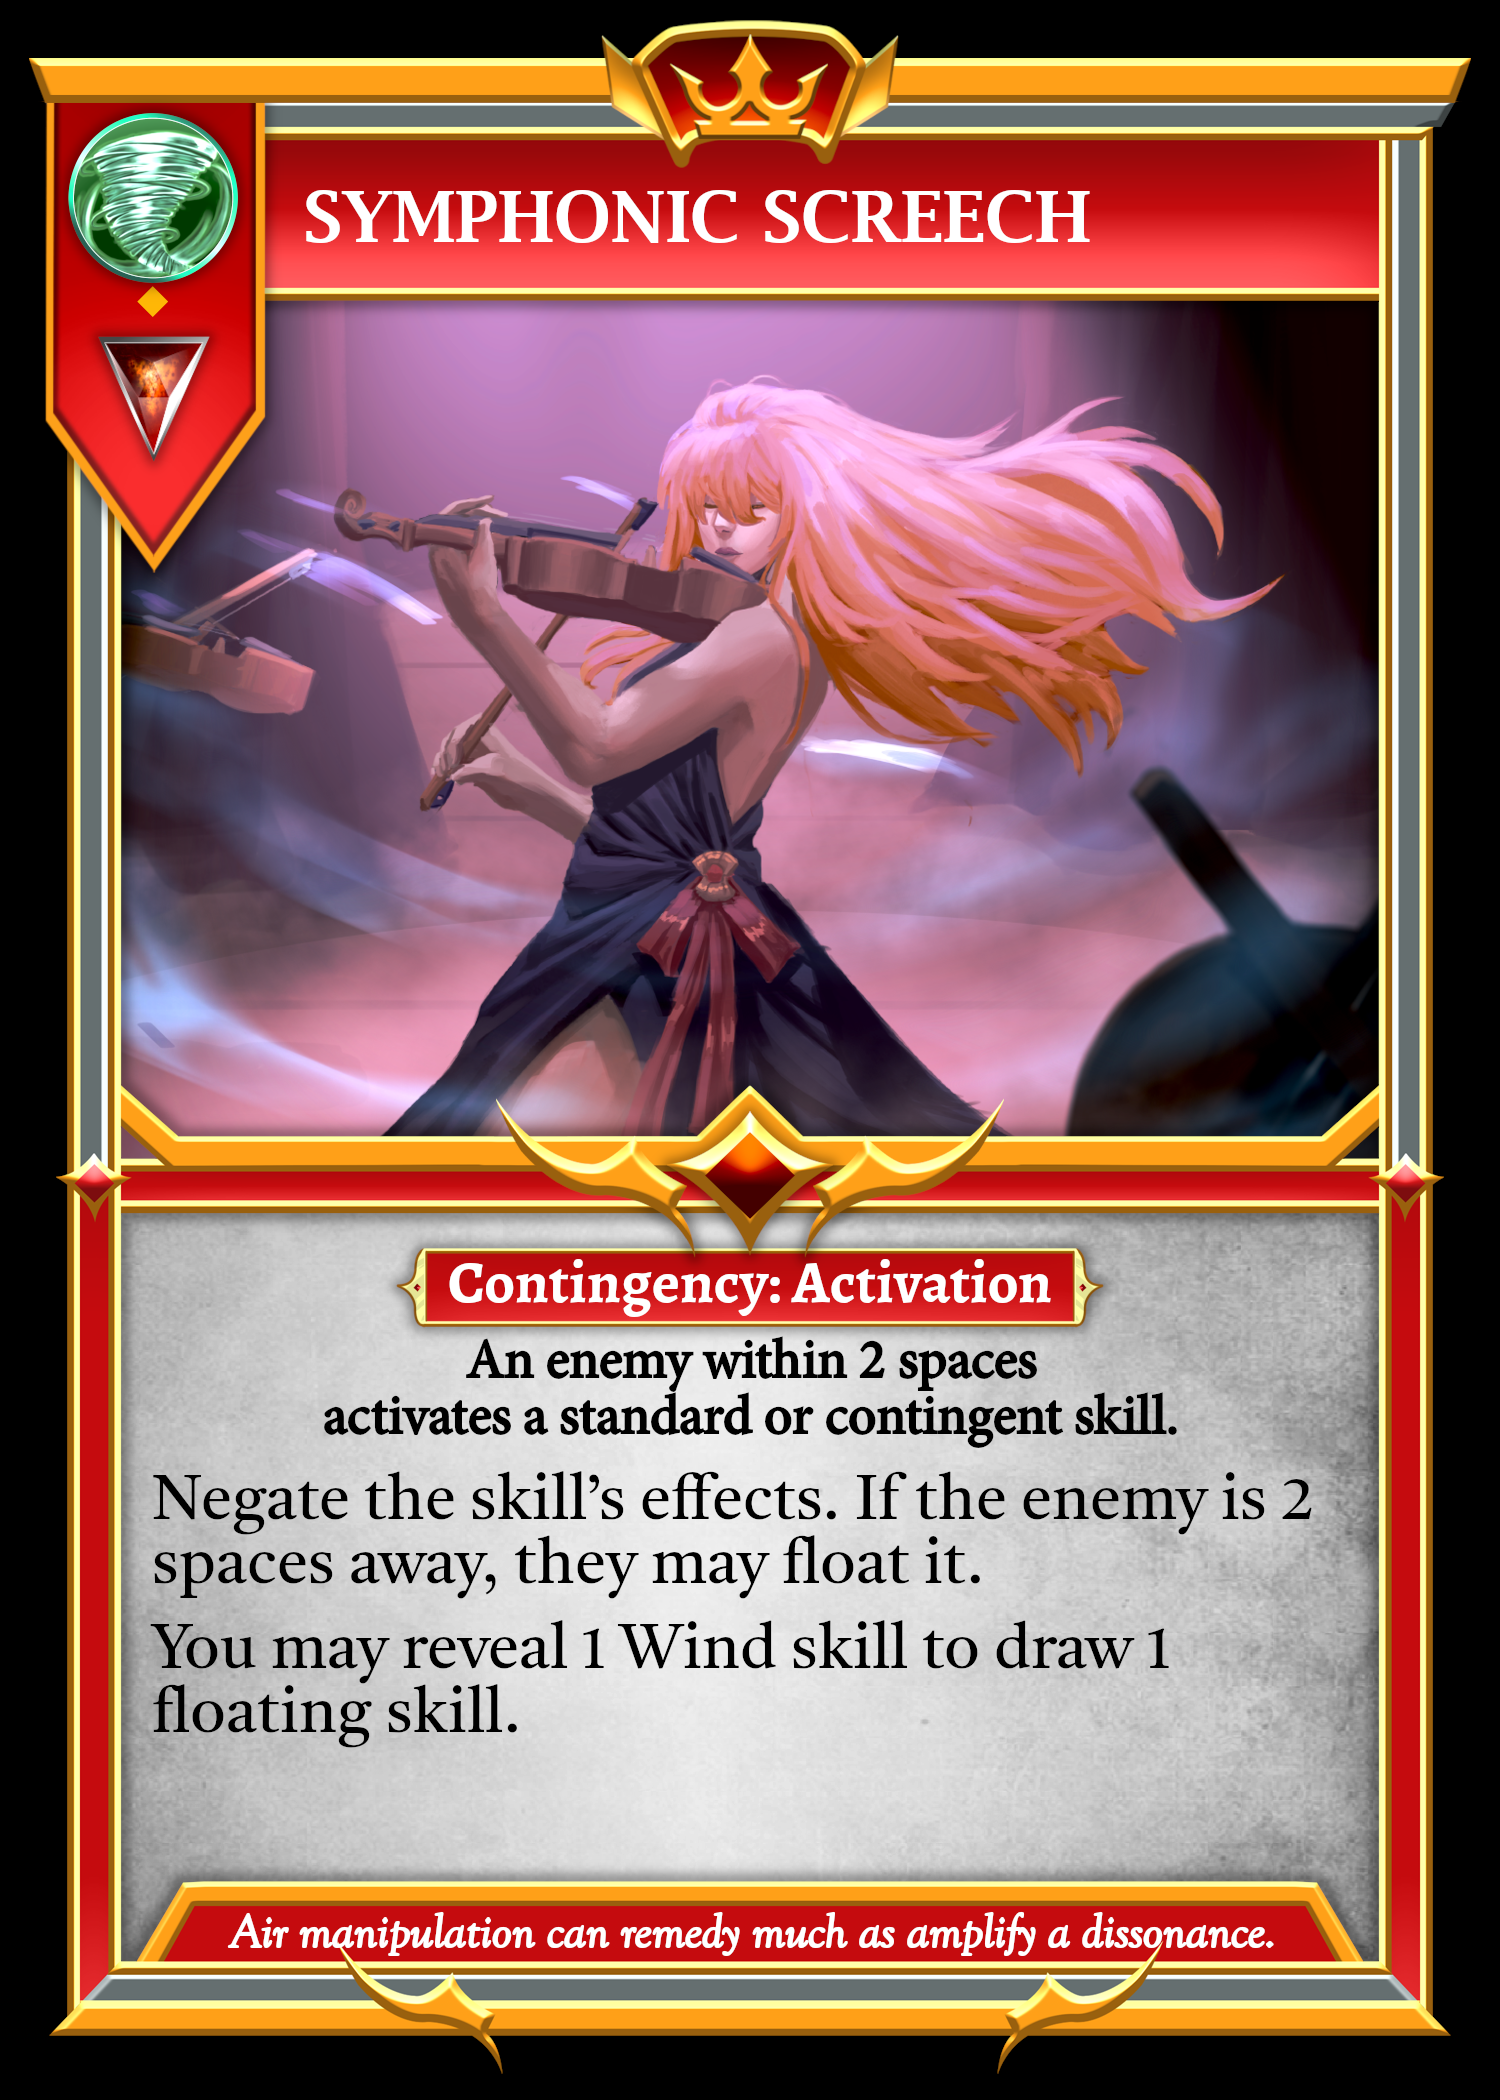
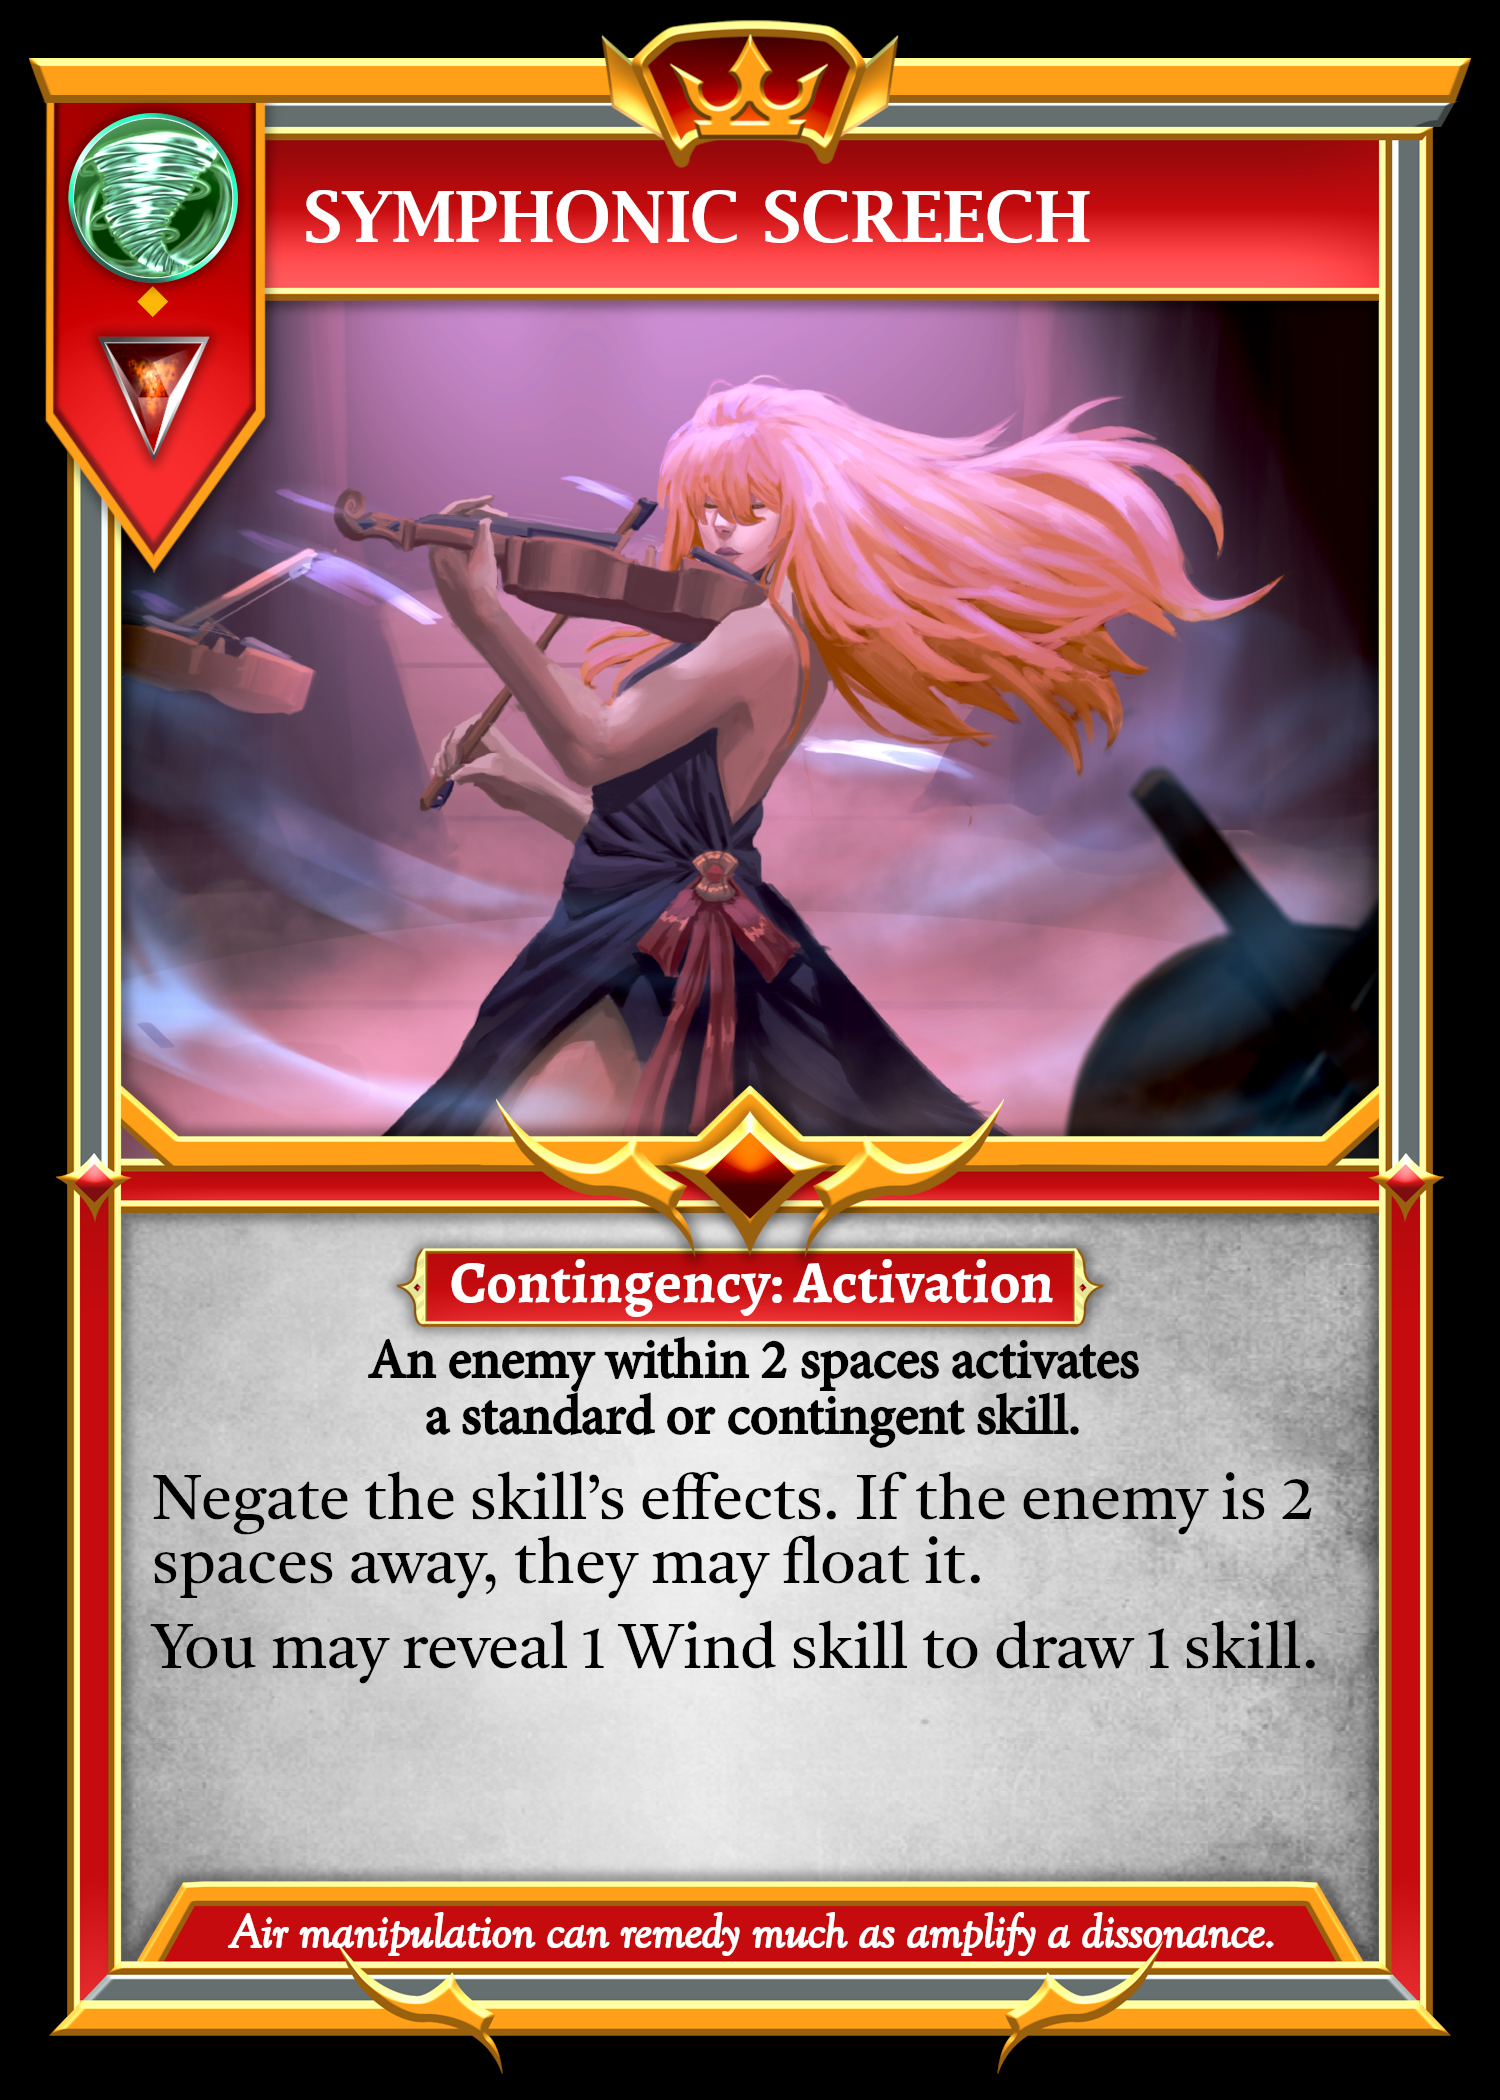
Fixed bug with Symphonic Screech

Changed region(s): [[0.2147, 0.5881, 0.7973, 0.7119], [0.092, 0.8048, 0.3373, 0.8357], [0.7973, 0.7738, 0.8893, 0.8048]]

diff --git a/src/hooks/useSkillEffects.jsx b/src/hooks/useSkillEffects.jsx
@@ -767,7 +767,7 @@ export const useSkillEffects = () => {
 
     //activator can reveal 1 Wind skill to draw 1 floating skill
     if (
-      newGameState[self].skillFloat > 0 &&
+      // newGameState[self].skillFloat > 0 &&
       newGameState[self].skillHand.length
     ) {
       newGameState.currentResolution.push({
@@ -776,18 +776,41 @@ export const useSkillEffects = () => {
         unit: unit,
         details: {
           title: "Symphonic Screech",
-          message: "You may reveal 1 Wind skill to draw a floating skill.",
+          message: "You may reveal 1 Wind skill to draw 1 skill.",
           restriction: ["03-01", "03-02", "03-03", "03-04"],
           reason: "Symphonic Screech",
         },
       });
     }
 
+    // newGameState.currentResolution.push({
+    //   resolution: "Wind Skill",
+    //   resolution2: "Symphonic Screech Negate",
+    //   player: victim.player,
+    //   canFloat: !isAdjacent(unit, victim),
+    // });
+
+    if (!isAdjacent(unit, victim)) {
+      newGameState.currentResolution.push({
+        resolution: "Wind Skill",
+        resolution2: "Symphonic Screech Float",
+        unit: victim,
+        details: {
+          reason: "Symphonic Screech Float",
+          title: "Symphonic Screech",
+          message: "You may float your negated skill.",
+          no: "Skip",
+          yes: "Float",
+        },
+      });
+    }
+
     newGameState.currentResolution.push({
-      resolution: "Wind Skill",
-      resolution2: "Symphonic Screech Negate",
-      player: victim.player,
-      canFloat: !isAdjacent(unit, victim),
+      resolution: "Misc.",
+      resolution2: "Message To Player",
+      player: enemy,
+      title: "Symphonic Screech",
+      message: "The effects of your unit’s skill have been negated!",
     });
 
     return newGameState;

diff --git a/src/components/modals/DefiancePhaseSelection.jsx b/src/components/modals/DefiancePhaseSelection.jsx
@@ -186,7 +186,7 @@ const DefiancePhaseSelection = (props) => {
     //Destine (Power at the Final Hour has the same activation requirement)
     localGameState[self].fateDefiances >= defianceCosts[3] &&
       canActivateSovereignSkill("SC-01"),
-    //Empower
+    //Ex Machina
     localGameState[self].fateDefiances >= defianceCosts[4],
     //Finesse
     localGameState[self].fateDefiances >= defianceCosts[5],
@@ -315,7 +315,7 @@ const DefiancePhaseSelection = (props) => {
                 } `}
               >
                 <div className="defianceText">
-                  <h4 className="defianceTitle">Empower</h4>
+                  <h4 className="defianceTitle">Ex Machina</h4>
                   <h3 className="defianceDescription ">
                     <span>Search for 1</span>
                     <br />

diff --git a/src/components/modals/YouMayNoYes.jsx b/src/components/modals/YouMayNoYes.jsx
@@ -118,6 +118,22 @@ const YouMayNoYes = (props) => {
         newGameState = drawSkill(newGameState);
         break;
 
+      case "Symphonic Screech Float": // "Symphonic Screech Float"
+        updateData = true;
+        let backtrack = 2;
+        if (
+          newGameState.currentResolution[
+            newGameState.currentResolution.length - 1
+          ].resolution2 === "Symphonic Screech2"
+        ) {
+          backtrack = 3;
+        }
+        newGameState.currentResolution[
+          newGameState.currentResolution.length - backtrack
+        ].conclusion = "float";
+
+        break;
+
       case "Cataclysmic Tempest 2nd Paralyze": // "Cataclysmic Tempest3"
         enterSelectUnitMode(
           props.details.adjacentEnemies,

diff --git a/src/components/Board.jsx b/src/components/Board.jsx
@@ -2049,6 +2049,20 @@ const Board = (props) => {
               </>
             );
 
+          case "Symphonic Screech Float":
+            return (
+              <>
+                {self === lastResolution.unit.player && !hideModal && (
+                  <YouMayNoYes
+                    unit={lastResolution.unit}
+                    details={lastResolution.details}
+                    updateFirebase={updateFirebase}
+                    hideOrRevealModale={hideOrRevealModale}
+                  />
+                )}
+              </>
+            );
+
           case "Symphonic Screech2":
             return (
               <>

diff --git a/src/components/modals/Modal.css b/src/components/modals/Modal.css
@@ -524,7 +524,7 @@ margin-bottom: 30px;
 }
 
 .defianceDescriptionSmall {
-    font-size: 18px;
+    font-size: 16.75px;
 }
 
 .fdCost {
